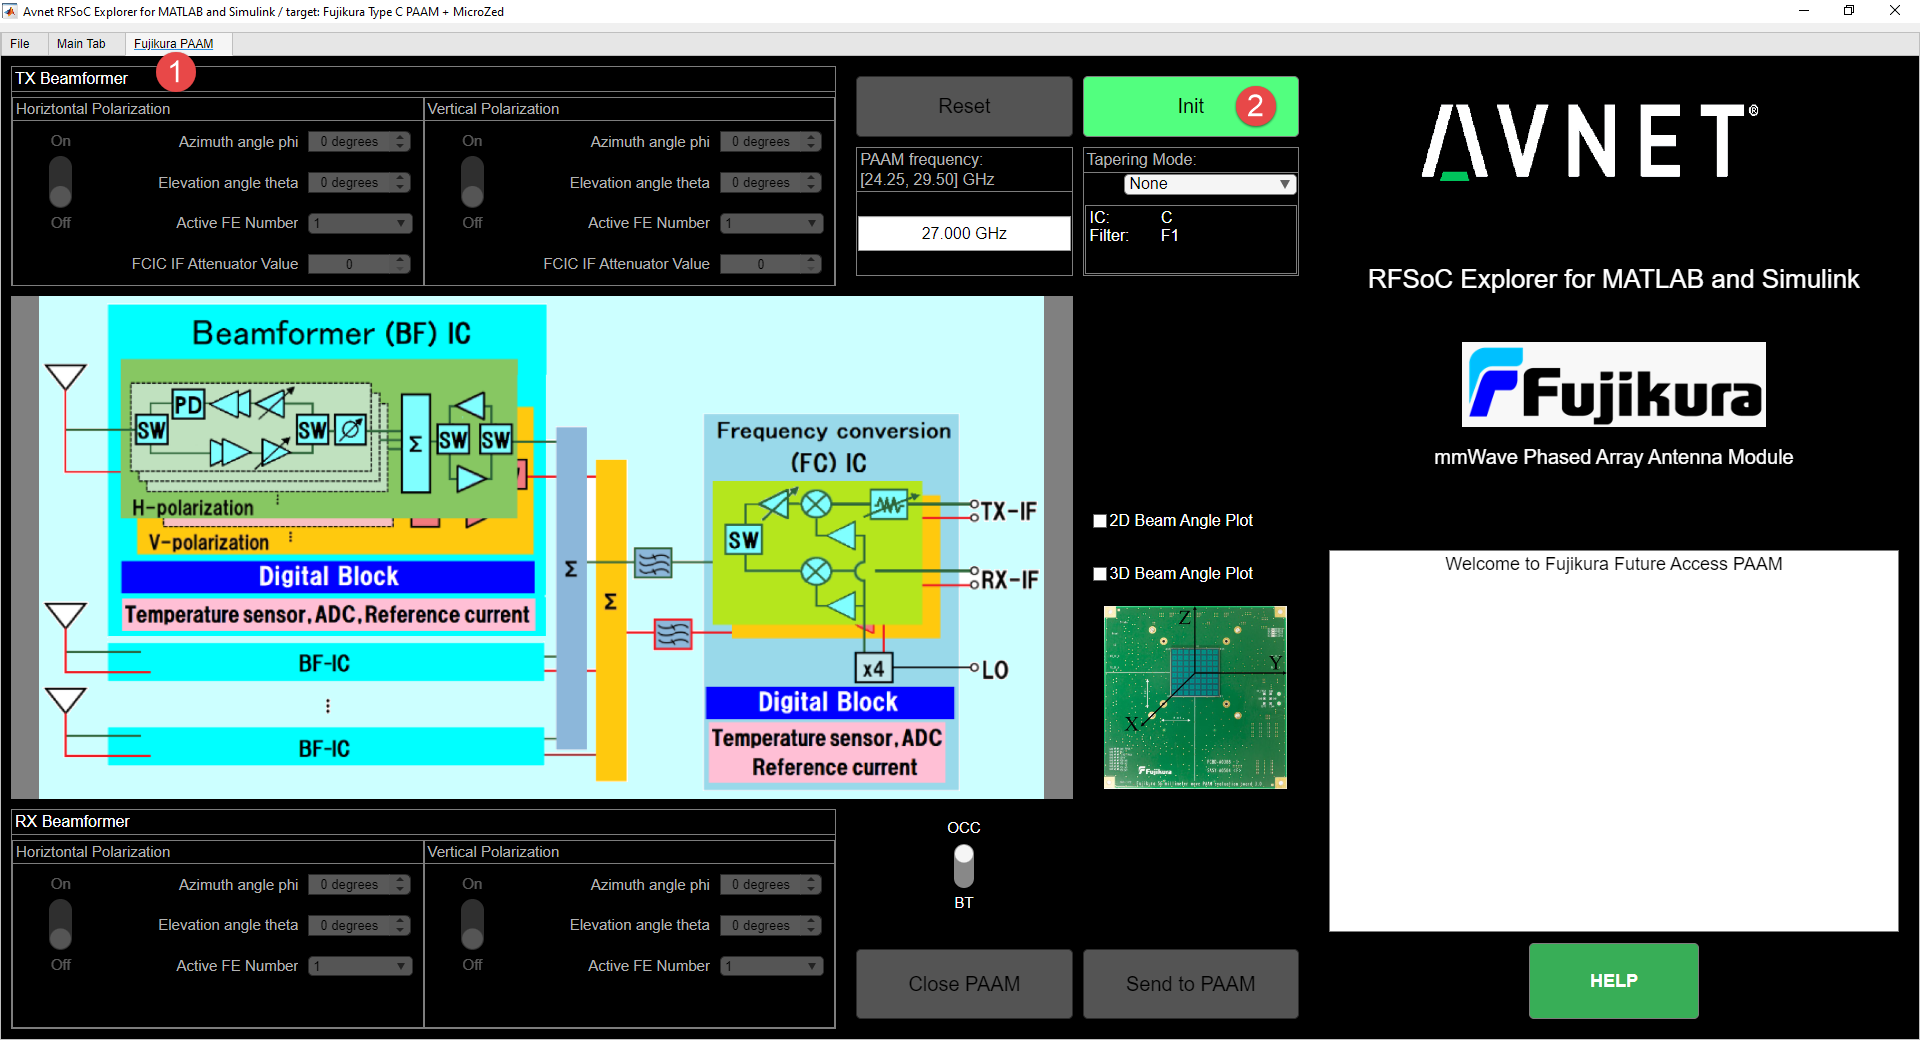
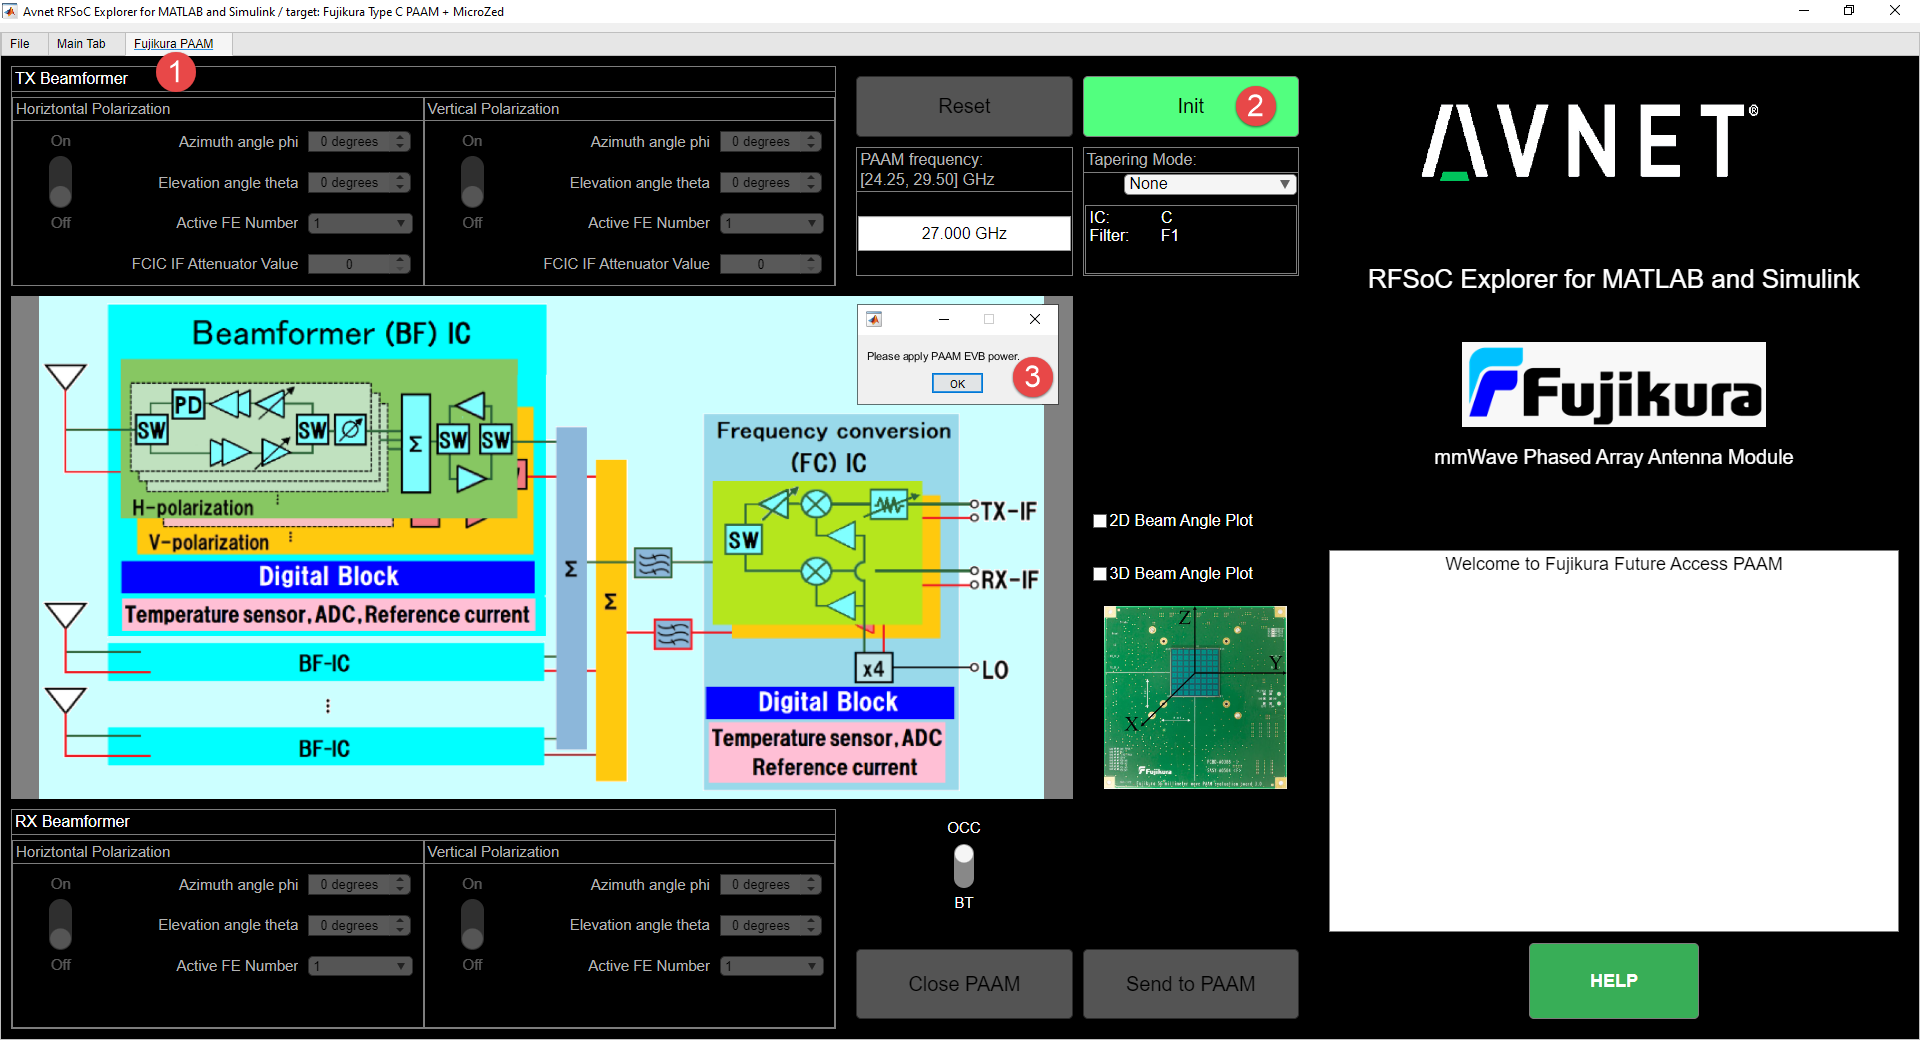
Update PAAM connect message.

Changed region(s): [[0.4375, 0.2769, 0.5625, 0.4]]

diff --git a/README.md b/README.md
@@ -12,15 +12,16 @@ If you are interested in the Fujikura Task-A/B PAAM documentation, please see th
 
 # Document Control
 
-**Document Version:** 3.0
+**Document Version:** 3.0.1
 
-**Document Date:** 10/3/2024
+**Document Date:** 11/14/2024
 
 # Version History
 
 | Version |     | Date         |     | Comment                                               |     |
 |---------|-----|--------------|-----|-------------------------------------------------------|-----|
-| 3.0     |     | Nov 08, 2024 |     | Initial public release with RFSoC Explorer 3.1.1      |     |
+| 3.0.0   |     | Nov 08, 2024 |     | Initial public release with RFSoC Explorer 3.1.1      |     |
+| 3.0.1   |     | Nov 14, 2024 |     | Updated screenshots for Type-C PAAM                   |     |
 |         |     |              |     |                                                       |     |
 # Table of contents
 
@@ -720,8 +721,9 @@ Once connected:
 
 2.  Click **<span class="mark">Init</span>** .
 
-3.  RFSoC Explorer should now start using Python scripts and JSON messages to initialize the PAAM. If it cannot communicate with the PAAM, you will get a dialog to apply PAAM EVB power. Make sure that, in addition to the MicroZed's 5V power, the 12V power supply to the PAAM EVB and its fan is also ON so that you can hear the fan and that the row of green LEDs on the antenna-side of the EVB are also on.<BR>
-    Then click **OK** to continue.
+3.  RFSoC Explorer should now start using Python scripts to initialize the PAAM. If it cannot communicate with the PAAM, you will get a dialog to apply PAAM EVB power. Make sure that, in addition to the MicroZed's 5V power, the 12V power supply to the PAAM EVB and its fan is also ON so that you can hear the fan and that the row of green LEDs on the antenna-side of the EVB are also on.<BR>
+    Then click **OK** to continue.<BR>
+    __Note__ that if the MicroZed's USB serial port is connected to a PC, it can be powered and therefore responding.  But if the PAAM's 12V is not also powered, you will get a __Python Error: timeout: timed out__ message in the text box.
 
 <img src="./media/paam-init-power-warning.png" style="width:6.5in;height:auto;" /><br>
 
